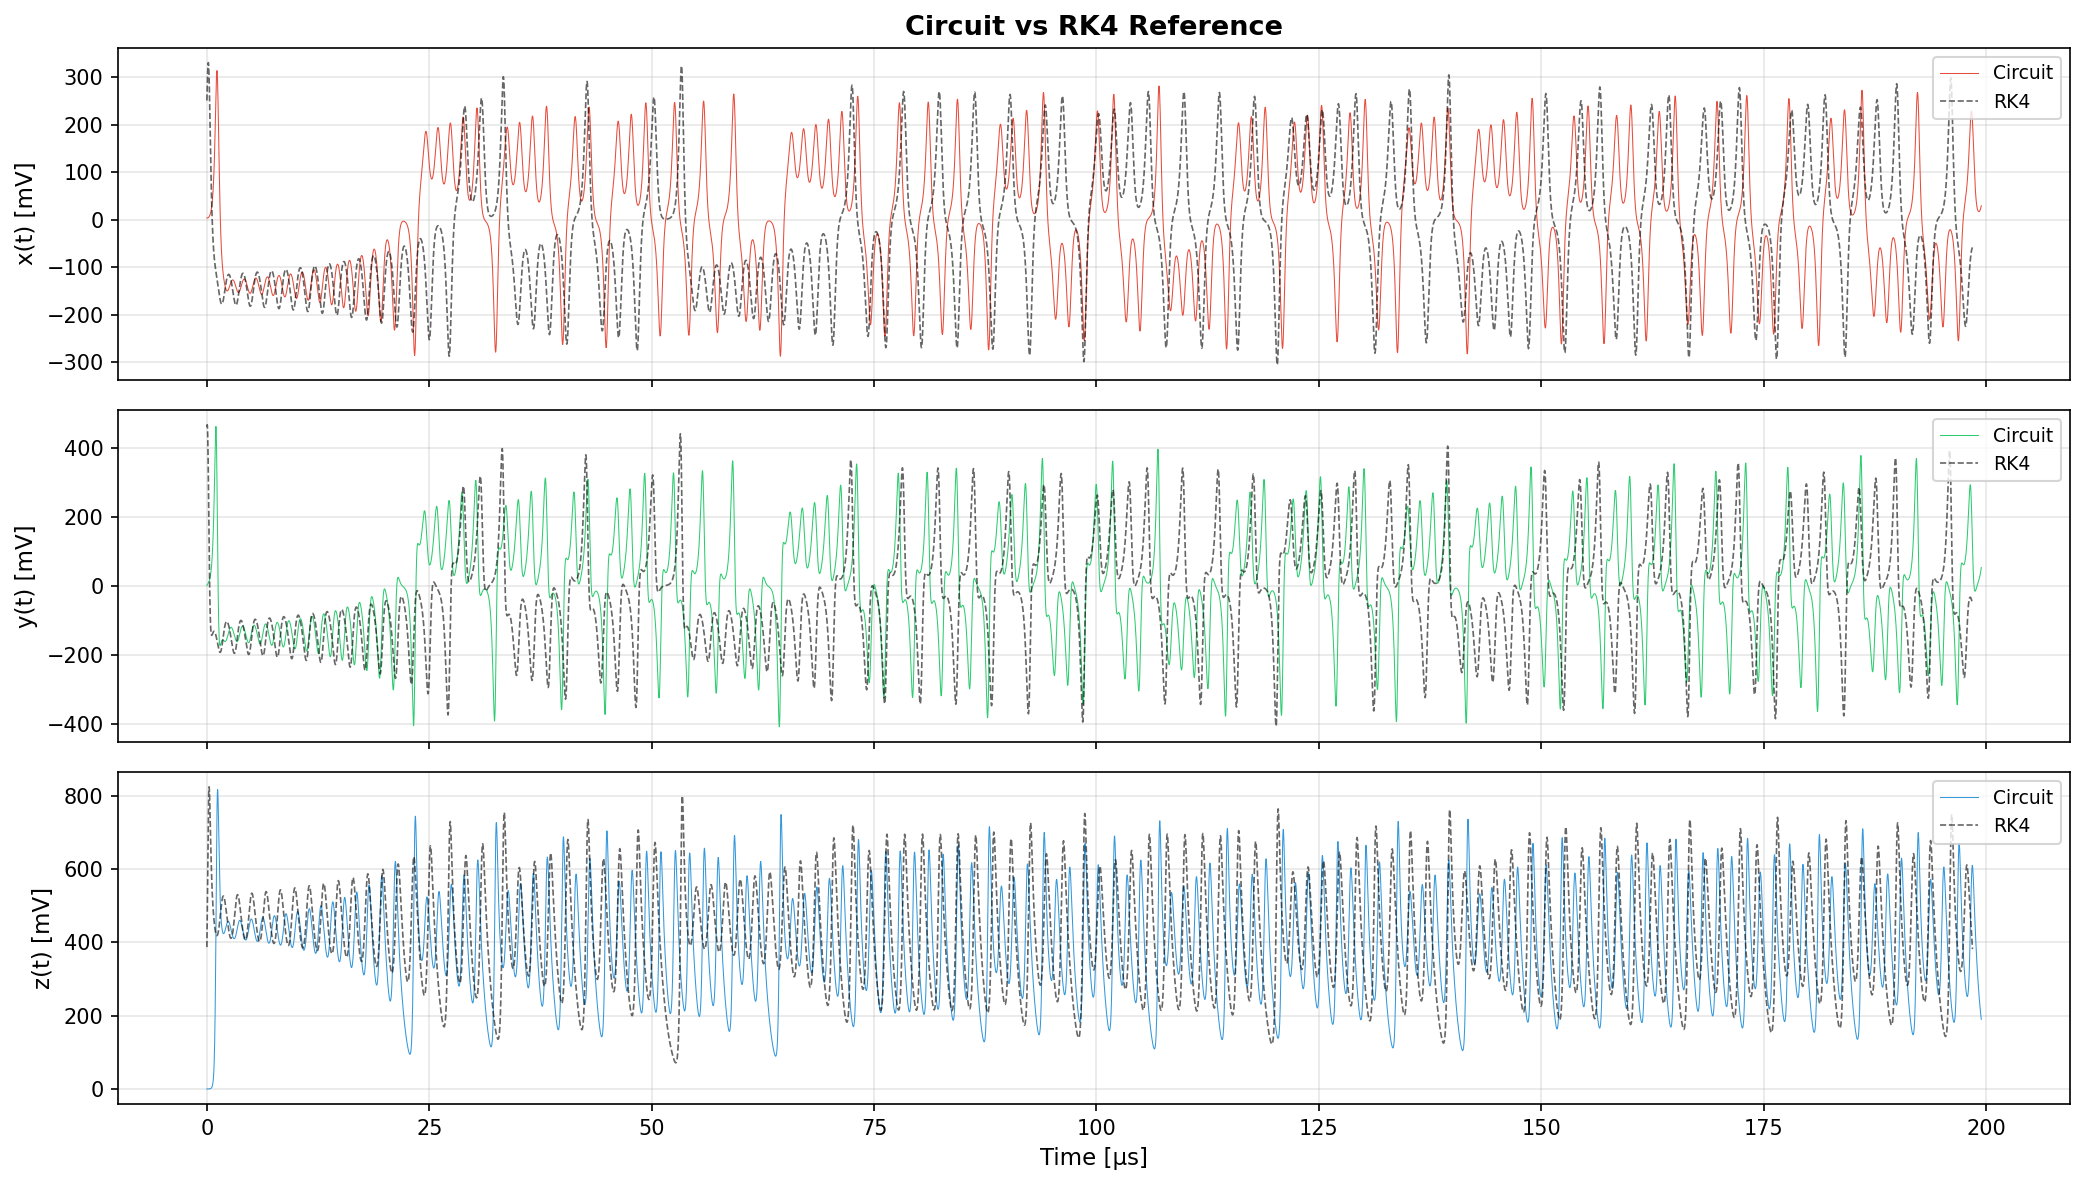
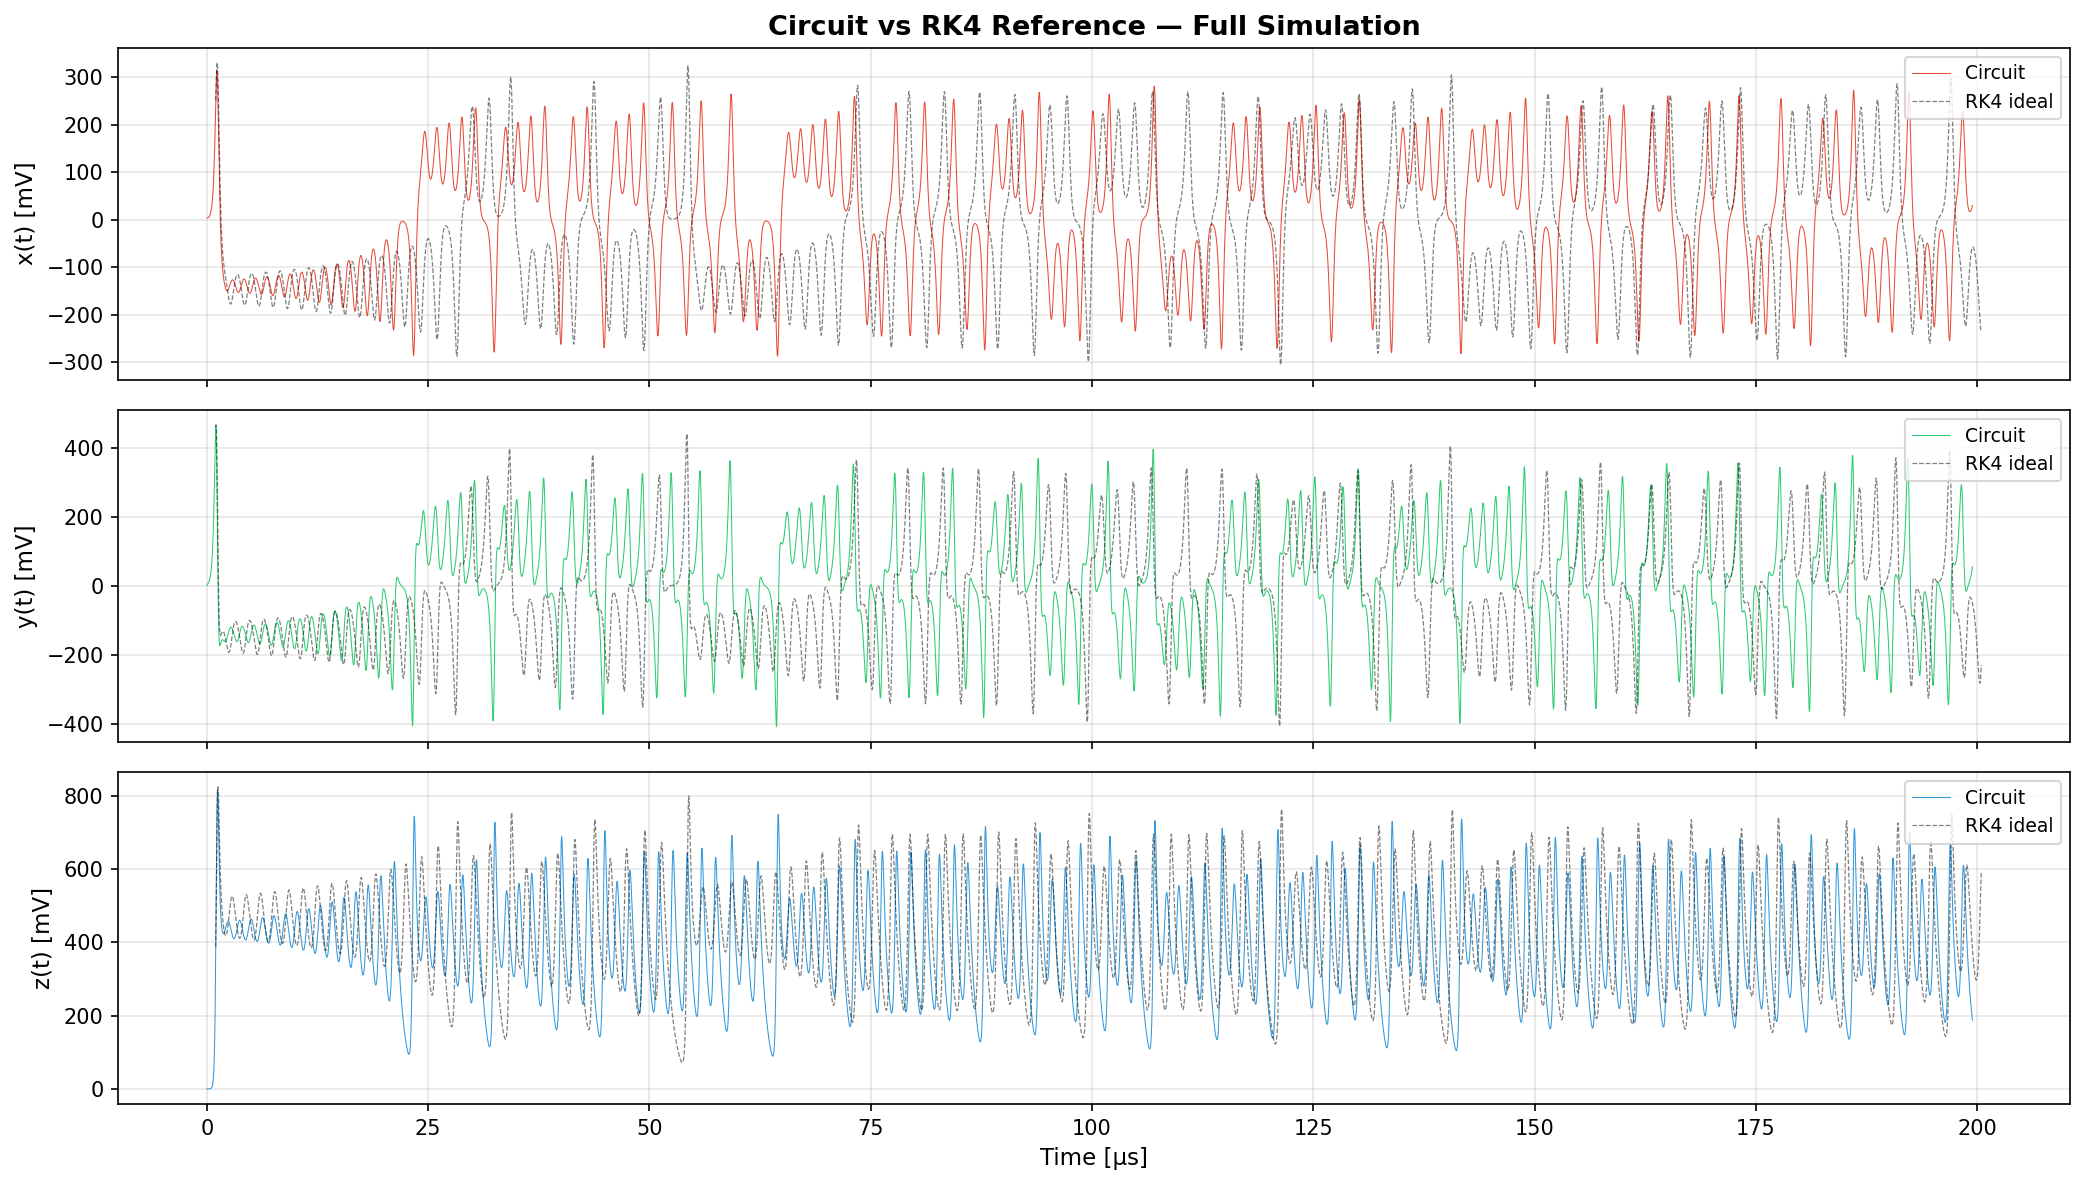
Add zoomed RK4 overlay, improved time series with extended RK4 reference

diff --git a/blocks/integration/README.md b/blocks/integration/README.md
@@ -42,6 +42,12 @@ The positive Lyapunov exponent confirms the system is genuinely chaotic, with ne
 
 *Circuit output (color) overlaid with ideal RK4 numerical reference (black dashed). Trajectories match closely for the first ~5 Lyapunov times (~14 us), achieving 0.909 correlation. Beyond this, exponential divergence due to sensitive dependence on initial conditions causes the trajectories to decorrelate -- as expected for any chaotic system. The attractor topology (amplitude envelope, switching frequency) remains correct throughout.*
 
+### Zoomed RK4 Comparison (First 10 Lorenz Time Units)
+
+![RK4 Zoom](plots/time_series_rk4_zoom.png)
+
+*Zoomed view showing the first 25 us (~10 Lorenz time units). The circuit and ideal RK4 trajectories are nearly identical for the first ~5 us (2 LTU), match well through ~13 us (5 LTU), and begin diverging around 15 us -- consistent with a Lyapunov exponent of ~0.49 per LTU. This divergence is the hallmark of chaos: even infinitesimally close initial conditions produce exponentially different trajectories.*
+
 ## Phase Portraits
 
 ![Phase Portraits](plots/phase_portraits.png)
